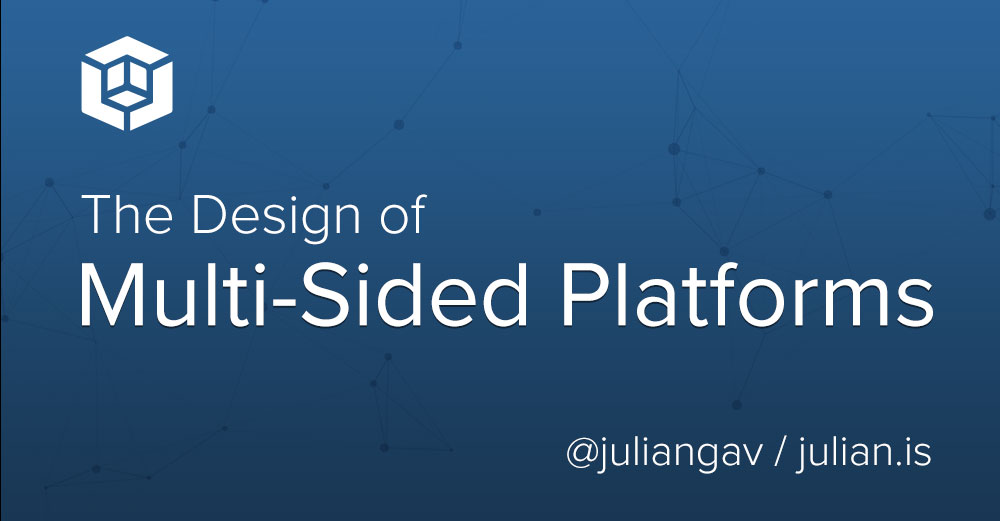
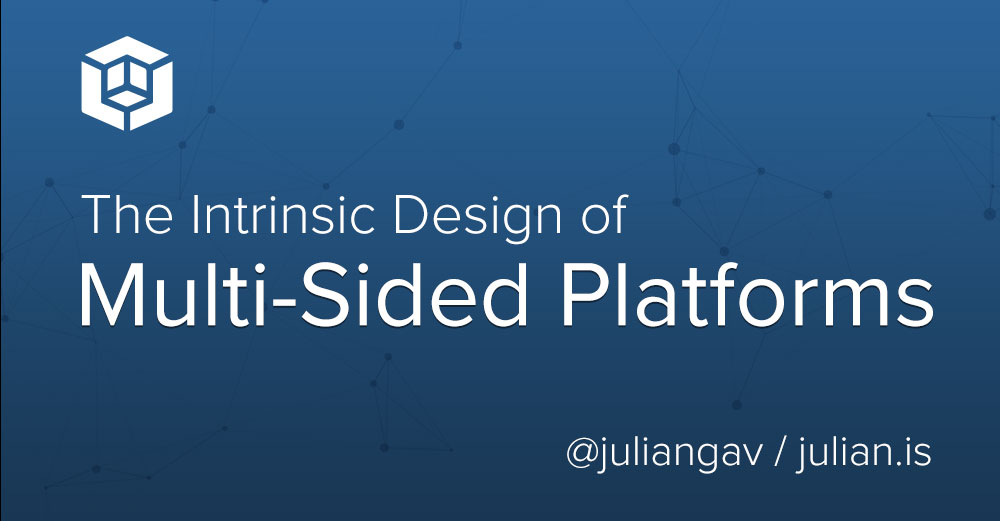
Added Intrinsic to the title of a15.

Changed region(s): [[0.186, 0.3685, 0.651, 0.4914]]

diff --git a/site/static/sw.js b/site/static/sw.js
@@ -1,4 +1,4 @@
-var CACHE_NAME = 'site-cache-a152';
+var CACHE_NAME = 'site-cache-a153';
 var urlsToCache = [
   '/',
   '/style.css',
@@ -58,7 +58,7 @@ self.addEventListener('fetch', function(event) {
 
 self.addEventListener('activate', function(event) {
 
-  var cacheWhitelist = ['site-cache-a152'];
+  var cacheWhitelist = ['site-cache-a153'];
 
   event.waitUntil(
     caches.keys().then(function(cacheNames) {

diff --git a/site/content/articles/2022-05-12-platform-design.md b/site/content/articles/2022-05-12-platform-design.md
@@ -1,5 +1,5 @@
 ---
-title: "The Design of Multi-Sided Platforms"
+title: "The Intrinsic Design of Multi-Sided Platforms"
 description: A comprehensive guide on designing multi-sided platforms based on hands-on experience and a decent amount of research.
 tags: [multisidedplatforms, twosidedmarkets, uxstrategy, productdesign]
 lastmod: 2022-05-12

diff --git a/site/content/article-resources/multi-sided-platforms.md b/site/content/article-resources/multi-sided-platforms.md
@@ -6,7 +6,7 @@ layout: default
 
 
 
-This resource page is a companion to the [The Design of Multi-Sided Platforms](/article/platform-design/) article.
+This resource page is a companion to the [The Intrinsic Design of Multi-Sided Platforms](/article/platform-design/) article.
 
 ## Books
 
